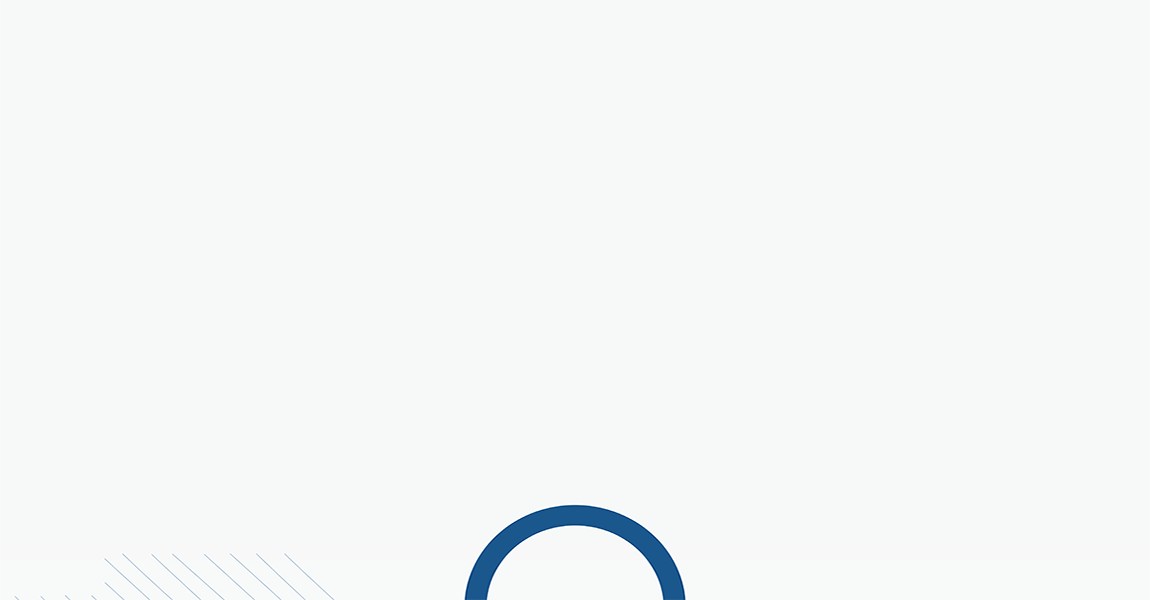
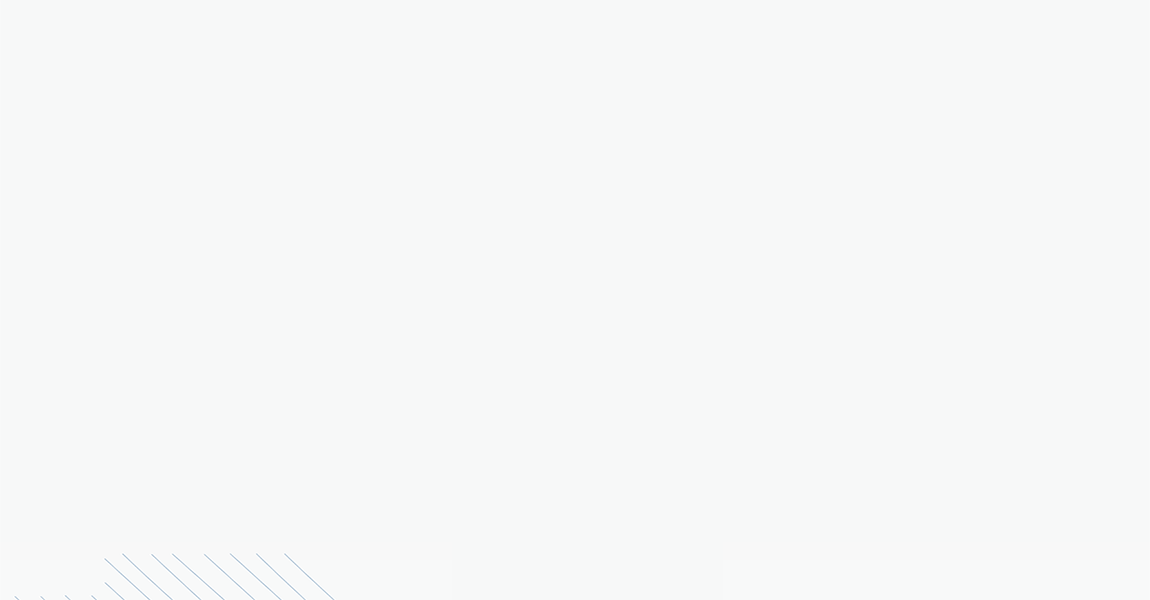
imagesupdate

Changed region(s): [[0.3957, 0.84, 0.6087, 1.0]]

diff --git a/src/app/home/ourservices/ourservices.component.html b/src/app/home/ourservices/ourservices.component.html
@@ -11,7 +11,7 @@
         <div class="flip-box">
             <div class="flip-box-inner">
               <div class="flip-box-front">
-                <img src="assets/Images/6.png" class="img-fluid srvc-1">
+                <img src="../../../assets/Images/srvc1.gif" class="img-fluid srvc-1">
                 <h2 class="srvc-hd my-2">SERVICE</h2>
               </div>
               <div class="flip-box-back">
@@ -26,7 +26,7 @@
         <div class="flip-box">
             <div class="flip-box-inner">
               <div class="flip-box-front">
-                <img src="assets/Images/7.png" class="img-fluid srvc-2">
+                <img src="../../../assets/Images/srvc2.gif" class="img-fluid srvc-2">
                 <h2 class="srvc-hd my-2">SERVICE</h2>
               </div>
               <div class="flip-box-back">
@@ -76,7 +76,7 @@
         <div class="flip-box">
             <div class="flip-box-inner">
               <div class="flip-box-front">
-                <img src="assets/Images/10.png" class="img-fluid srvc-4">
+                <img src="../../../assets/Images/srvc5.gif" class="img-fluid srvc-4">
                 <h2 class="srvc-hd my-2">SERVICE</h2>
               </div>
               <div class="flip-box-back">

diff --git a/src/app/home/home.component.html b/src/app/home/home.component.html
@@ -1,8 +1,11 @@
-<div class="container-fluid">
-    <div class="row one">
-             <h1 class="banner-hd1">GHAR CHAHIYE IDHAR UDHAR MAT GHUMO</h1>
-             <h2 class="banner-hd2">WELCOME TO RENTROOMO</h2>
-             <form class="d-flex">
+
+    <section class="one">
+        <app-header></app-header>
+
+        <div class="container">
+    <div class="row ">
+       
+             <form class="d-flex pt-5 mt-5">
                 <input class=" form-con srch-1 me-2 w-25 text-center" type="text" placeholder="LOCATION / CITY">
                 <select name="types" id="type" class="btn-srch-3">
                     <option >TYPE</option>
@@ -14,11 +17,10 @@
                 <button class="btn btn-srch-2" type="button">Search</button>
               </form>
 
-             <div class="col-md-12 w-100 p-0" data-aos="zoom-in-up" data-aos-easing="linear" data-aos-duration="2000">
-                 <img src="assets/Images/MAIN PAGE-1.png" class="img-fluid w-100">
-             </div>
+            </div>  
     </div>
-</div>
+</section>
+
 
 
 <app-featuredproperties></app-featuredproperties>

diff --git a/src/app/home/whoweare/whoweare.component.html b/src/app/home/whoweare/whoweare.component.html
@@ -1,14 +1,17 @@
 <section class="bg-3">
     <div class="container">
         <div class="row">
-            <div class="col-md-12 my-5"></div>
+            <div class="text-center">
+            <svg viewBox="0 0 100 100" xmlns="http://www.w3.org/2000/svg">
+                <circle cx="50" cy="50" r="46"/>
+              </svg>
+            </div>
         </div>
     <div class="row">
     <div class="col-md-5 my-5 pe-0" data-aos="fade-up-right"
-    data-aos-easing="linear"
-    data-aos-duration="2000">
+    data-aos-easing="linear" data-aos-duration="2000">
       <div class="two who-circle-bg py-5 mt-5"> 
-          <img src="assets/Images/3.png" class="col-7">
+          <img src="../../../assets/Images/charactericon4.gif" class="col-7">
        </div>
     </div>
 

diff --git a/src/app/home/whoweare/whoweare.component.css b/src/app/home/whoweare/whoweare.component.css
@@ -32,3 +32,37 @@
         position: relative;
     }
 }
+svg {
+	width: 100%;
+	max-width: 10rem;
+	animation: rotate 3.6s linear infinite;
+}
+
+circle {
+	fill: none;
+	stroke: dodgerblue;
+	stroke-width: 8px;
+	stroke-dasharray: 300;
+	animation: outline 2s cubic-bezier(0.77,0,0.18,1) infinite;
+}
+
+@keyframes outline {
+	0% {
+		stroke-dashoffset: 0;
+	}
+	50% {
+		stroke-dashoffset: 300;
+	}
+	100% {
+		stroke-dashoffset: 600;
+	}
+}
+
+@keyframes rotate {
+	from {
+		transform: rotate(0turn);
+	}
+	to {
+		transform: rotate(-1turn);
+	}
+}

diff --git a/src/app/home/whatwedo/whatwedo.component.html b/src/app/home/whatwedo/whatwedo.component.html
@@ -16,8 +16,8 @@
         </div>
 
         <div class="col-md-5 ps-0" data-aos="fade-down-right" data-aos-easing="linear"  data-aos-duration="2500">
-          <div class="five who-circle-bg my-5 py-4">
-              <img src="assets/Images/4.png" class="col-7">
+          <div class="five who-circle-bg my-5 py-4 w-100">
+              <img src="../../../assets/Images/wtwedo.gif" class="col-7">
            </div>
         </div>
      

diff --git a/src/app/home/whyus/whyus.component.html b/src/app/home/whyus/whyus.component.html
@@ -7,7 +7,7 @@
         <div class="row">
             <div class="col-md-5 my-5 pe-0" data-aos="flip-left" data-aos-duration="2000">
               <div class="two who-circle-bg py-5 mt-5" > 
-                  <img src="assets/Images/5.png" class="col-7">
+                  <img src="assets/Images/charactericon5.gif" class="col-7">
                </div>
             </div>
         

diff --git a/src/app/home/home.component.css b/src/app/home/home.component.css
@@ -20,8 +20,14 @@
     font-weight: 700;
     color: #19578d;
 }
-.one{
-    background-color: #f3f4f4;
+.one {
+     background-image: url("../../assets/Images/main.gif");
+     background-repeat: no-repeat;
+     background-size: 100% 100%;
+     background-position: center;
+     width: 100%;
+     height: 100vh;
+  
 }
 .srch-1{
     margin-left: auto;

diff --git a/src/app/home/needhelp/needhelp.component.html b/src/app/home/needhelp/needhelp.component.html
@@ -20,7 +20,7 @@
 
      <div class="col-md-5 ps-0">
        <div class="five who-circle-bg my-5 py-4">
-           <img src="assets/Images/11.png" class="col-7">
+           <img src="../../../assets/Images/needhelp.gif" class="col-7">
         </div>
      </div>
   

diff --git a/src/app/header/header.component.css b/src/app/header/header.component.css
@@ -1,6 +1,4 @@
-.navbar{
-    background-color: #f3f4f4;
-}
+
 .navbar-light .navbar-brand {
     color: dodgerblue;
     font-size: 30px;

diff --git a/src/app/app.component.html b/src/app/app.component.html
@@ -1,3 +1,3 @@
-<app-header></app-header>
+
 <router-outlet></router-outlet>
 <app-footer></app-footer>
